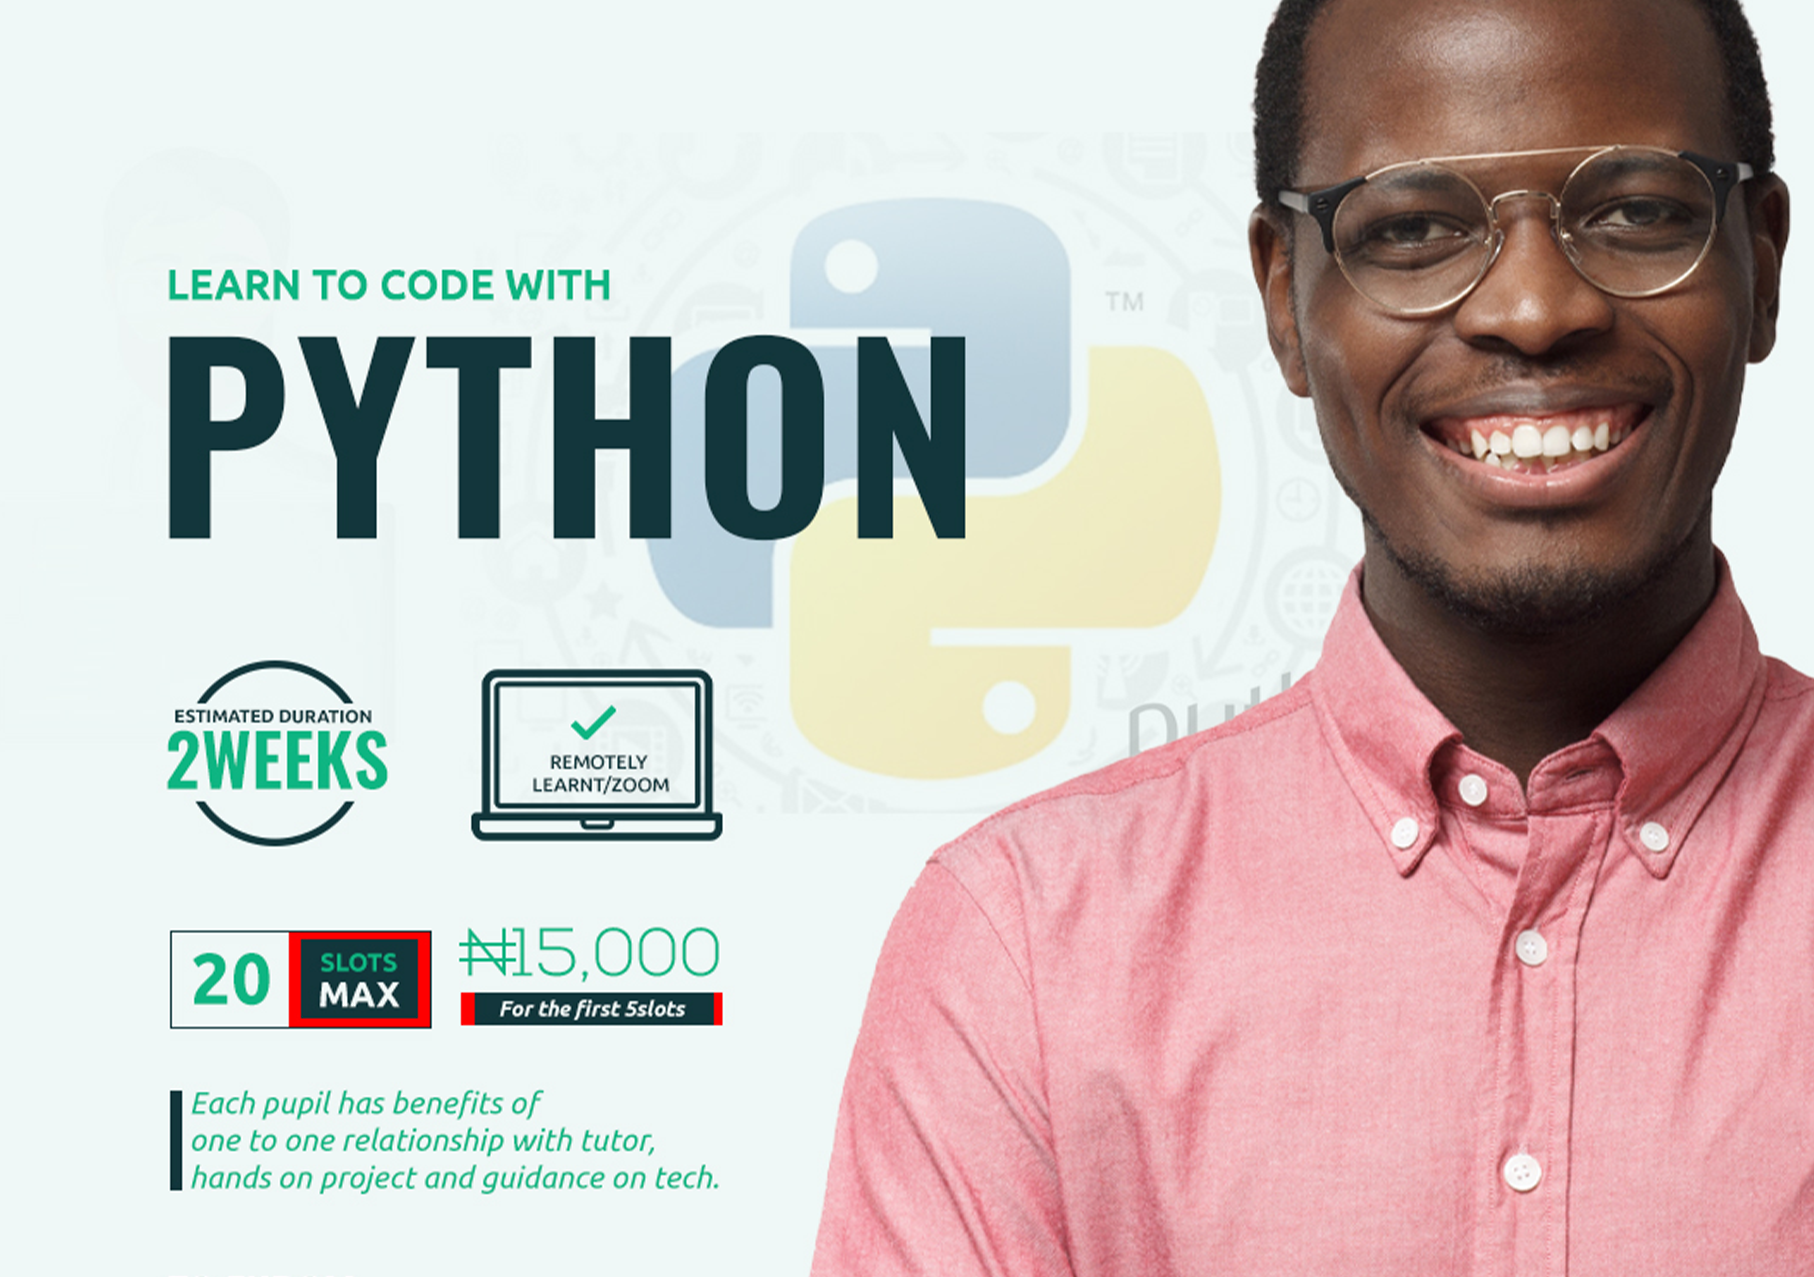
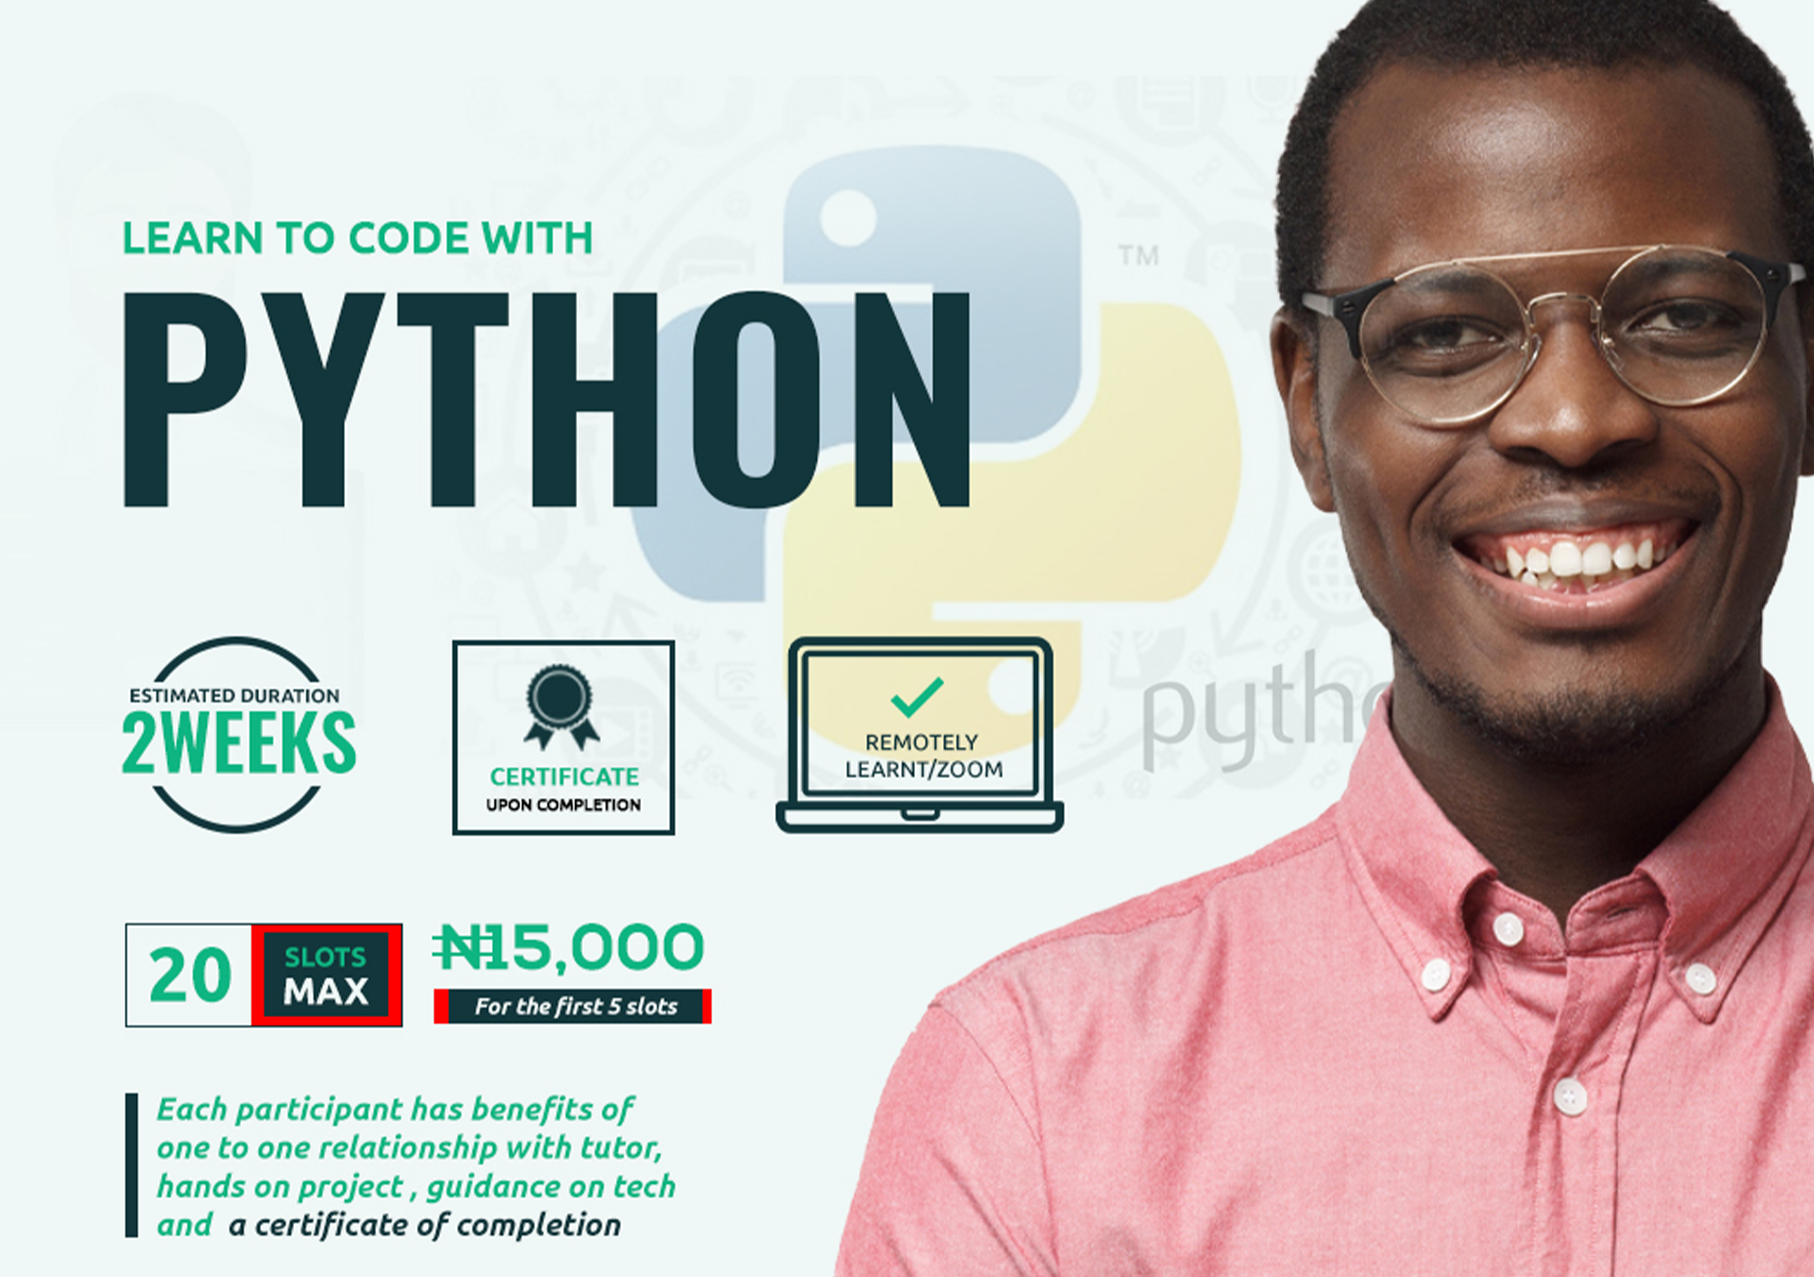
academy python1

diff --git a/index.html b/index.html
@@ -208,6 +208,27 @@
                       to the internet. 
                     </li>
                   </ul>
+                  <p class="content is-small has-text-info has-text-weight-bold">
+                    BENEFITS
+                  </p>
+                  <ul class="has-text-info has-text-weight-light">
+                     
+                    <strong>Each participant has benefits of</strong><br>
+                    <li>                      
+                      one to one relationship with tutor,  
+                     </li>
+
+                     <li>                      
+                       hands on project and guidance on tech. 
+                     </li>            
+                    <li>
+                      and will receive   <span>
+                        <strong>a certificate of completion</strong>                  
+                      </span>  after the training.
+                      
+                    </li>
+                 
+                  </ul>
                 </div>
               </div>
               <div class="column is-2"></div>
